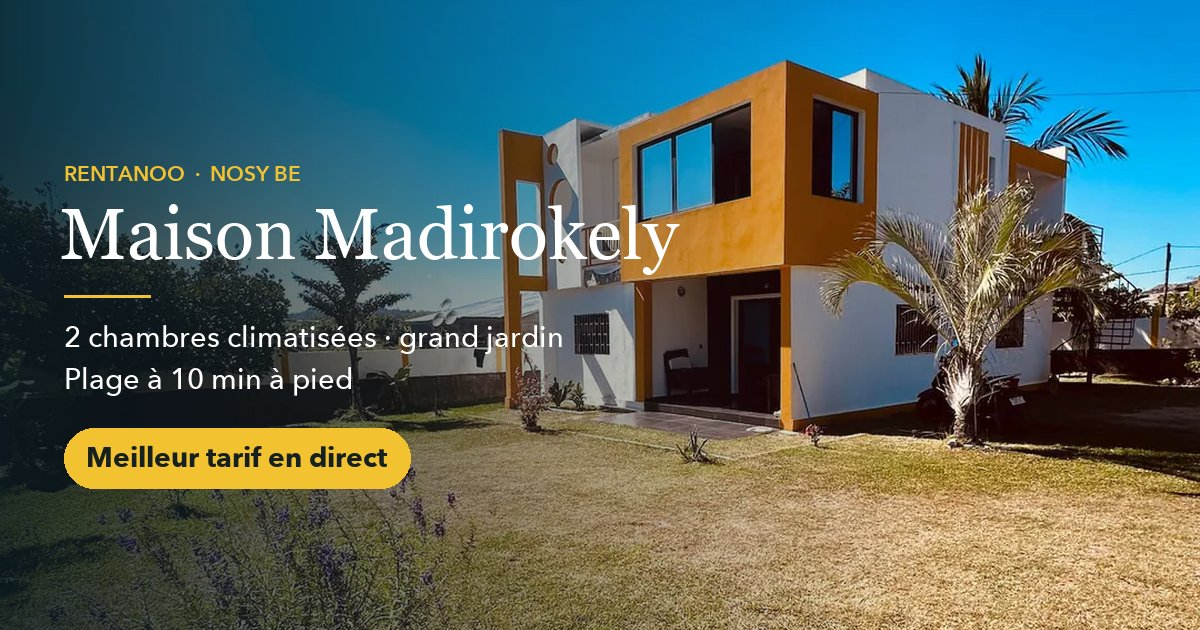
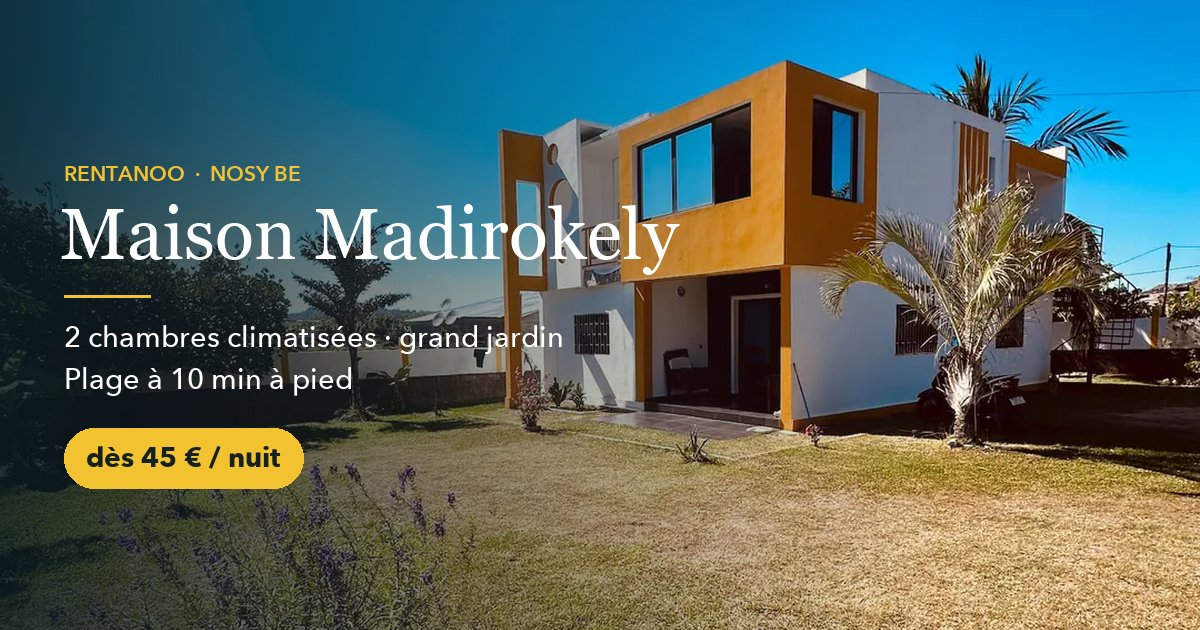
Prix direct : dès 45 € la nuit (FR/IT/EN, JSON-LD, image de partage)

Changed region(s): [[0.0617, 0.6635, 0.37, 0.7841]]

diff --git a/index.html b/index.html
@@ -4,7 +4,7 @@
 <meta charset="utf-8">
 <meta name="viewport" content="width=device-width, initial-scale=1">
 <title>Maison neuve avec jardin à Madirokely, Nosy Be — 2 chambres climatisées</title>
-<meta name="description" content="Maison neuve avec grand jardin privatif à Madirokely, Nosy Be : 2 chambres climatisées, jusqu&#x27;à 5 personnes, wifi, Canal+, cuisine équipée, gardien. Plage à 10 min à pied. Meilleur tarif en direct.">
+<meta name="description" content="Maison neuve avec grand jardin privatif à Madirokely, Nosy Be : 2 chambres climatisées, jusqu&#x27;à 5 personnes, wifi, Canal+, cuisine équipée, gardien. Plage à 10 min à pied. Dès 45 € la nuit en direct.">
 <link rel="canonical" href="https://maison-madirokely.rentanoo.com/">
 <meta name="robots" content="index, follow, max-image-preview:large, max-snippet:-1">
 <meta name="theme-color" content="#16211F">
@@ -20,7 +20,7 @@
 <meta property="og:locale:alternate" content="en_US">
 <meta property="og:url" content="https://maison-madirokely.rentanoo.com/">
 <meta property="og:title" content="Maison neuve avec jardin · Madirokely, Nosy Be">
-<meta property="og:description" content="2 chambres climatisées, grand jardin privatif, jusqu&#x27;à 5 personnes, plage à 10 min à pied. Meilleur tarif en direct.">
+<meta property="og:description" content="2 chambres climatisées, grand jardin privatif, jusqu&#x27;à 5 personnes, plage à 10 min à pied. Dès 45 € la nuit en direct.">
 <meta property="og:image" content="https://maison-madirokely.rentanoo.com/images/og.jpg">
 <meta property="og:image:secure_url" content="https://maison-madirokely.rentanoo.com/images/og.jpg">
 <meta property="og:image:type" content="image/jpeg">
@@ -30,11 +30,11 @@
 
 <meta name="twitter:card" content="summary_large_image">
 <meta name="twitter:title" content="Maison neuve avec jardin · Madirokely, Nosy Be">
-<meta name="twitter:description" content="2 chambres climatisées, grand jardin privatif, jusqu&#x27;à 5 personnes, plage à 10 min à pied. Meilleur tarif en direct.">
+<meta name="twitter:description" content="2 chambres climatisées, grand jardin privatif, jusqu&#x27;à 5 personnes, plage à 10 min à pied. Dès 45 € la nuit en direct.">
 <meta name="twitter:image" content="https://maison-madirokely.rentanoo.com/images/og.jpg">
 
 <script type="application/ld+json">
-{"@type": "LodgingBusiness", "name": "Maison Madirokely", "description": "Maison neuve avec grand jardin privatif à Madirokely (Nosy Be), dans une résidence sécurisée avec gardien : 2 chambres climatisées et couchage au salon, jusqu'à 5 personnes, wifi, Canal+, cuisine équipée. Plage de Madirokely à 10 minutes à pied.", "url": "https://maison-madirokely.rentanoo.com/", "image": ["https://maison-madirokely.rentanoo.com/images/og.jpg", "https://maison-madirokely.rentanoo.com/images/exterieur-1.webp"], "telephone": "+261373437912", "email": "chrisrentanoo@gmail.com", "address": {"@type": "PostalAddress", "addressLocality": "Madirokely", "addressRegion": "Nosy Be", "addressCountry": "MG"}, "areaServed": "Nosy Be", "amenityFeature": [{"@type": "LocationFeatureSpecification", "name": "Climatisation", "value": true}, {"@type": "LocationFeatureSpecification", "name": "Wifi", "value": true}, {"@type": "LocationFeatureSpecification", "name": "Canal+", "value": true}, {"@type": "LocationFeatureSpecification", "name": "Cuisine équipée", "value": true}, {"@type": "LocationFeatureSpecification", "name": "Jardin privatif", "value": true}, {"@type": "LocationFeatureSpecification", "name": "Gardien sur place", "value": true}], "sameAs": ["https://rentanoo.com/hebergement/DA287E92", "https://www.airbnb.fr/rooms/1715794139756240417"], "numberOfRooms": 2, "@context": "https://schema.org"}
+{"@type": "LodgingBusiness", "name": "Maison Madirokely", "description": "Maison neuve avec grand jardin privatif à Madirokely (Nosy Be), dans une résidence sécurisée avec gardien : 2 chambres climatisées et couchage au salon, jusqu'à 5 personnes, wifi, Canal+, cuisine équipée. Plage de Madirokely à 10 minutes à pied.", "url": "https://maison-madirokely.rentanoo.com/", "image": ["https://maison-madirokely.rentanoo.com/images/og.jpg", "https://maison-madirokely.rentanoo.com/images/exterieur-1.webp"], "telephone": "+261373437912", "email": "chrisrentanoo@gmail.com", "address": {"@type": "PostalAddress", "addressLocality": "Madirokely", "addressRegion": "Nosy Be", "addressCountry": "MG"}, "areaServed": "Nosy Be", "amenityFeature": [{"@type": "LocationFeatureSpecification", "name": "Climatisation", "value": true}, {"@type": "LocationFeatureSpecification", "name": "Wifi", "value": true}, {"@type": "LocationFeatureSpecification", "name": "Canal+", "value": true}, {"@type": "LocationFeatureSpecification", "name": "Cuisine équipée", "value": true}, {"@type": "LocationFeatureSpecification", "name": "Jardin privatif", "value": true}, {"@type": "LocationFeatureSpecification", "name": "Gardien sur place", "value": true}], "sameAs": ["https://rentanoo.com/hebergement/DA287E92", "https://www.airbnb.fr/rooms/1715794139756240417"], "numberOfRooms": 2, "priceRange": "À partir de 45 € la nuit", "currenciesAccepted": "EUR", "@context": "https://schema.org"}
 </script>
 
 <link rel="preconnect" href="https://fonts.googleapis.com">
@@ -274,9 +274,9 @@
 <header id="hdr">
   <a class="brand" href="#top" aria-label="Maison Madirokely"><b>Maison Madirokely</b><small>Madirokely · Nosy Be</small></a>
   <nav class="nav" aria-label="Navigation">
-    <a class="nl" href="#presentation"><span data-i18n="k35">Le logement</span></a>
-    <a class="nl" href="#pieces"><span data-i18n="k36">Pièce par pièce</span></a>
-    <a class="nl" href="#quartier"><span data-i18n="k37">Le quartier</span></a>
+    <a class="nl" href="#presentation"><span data-i18n="k36">Le logement</span></a>
+    <a class="nl" href="#pieces"><span data-i18n="k37">Pièce par pièce</span></a>
+    <a class="nl" href="#quartier"><span data-i18n="k38">Le quartier</span></a>
     <div class="langs" role="group" aria-label="Langue">
       <button type="button" data-lang="fr" aria-pressed="true"><span>FR</span></button>
       <button type="button" data-lang="it" aria-pressed="false"><span>IT</span></button>
@@ -293,16 +293,16 @@
     <img src="images/exterieur-1.webp" alt="La maison et son jardin, Madirokely" width="1080" height="1440" fetchpriority="high">
   </picture>
   <div class="hero-in">
-    <p data-i18n="k38" class="eyebrow">Madirokely · Nosy Be</p>
+    <p data-i18n="k39" class="eyebrow">Madirokely · Nosy Be</p>
     <h1>Maison Madirokely</h1>
-    <p data-i18n="k39" class="hero-sub">Une maison neuve avec grand jardin, au calme dans une résidence sécurisée, à 10 minutes à pied de la plage.</p>
+    <p data-i18n="k40" class="hero-sub">Une maison neuve avec grand jardin, au calme dans une résidence sécurisée, à 10 minutes à pied de la plage.</p>
     <ul class="chips"><li><span data-i18n="k1">2 chambres climatisées</span></li><li><span data-i18n="k2">Jusqu'à 5 voyageurs</span></li><li><span data-i18n="k3">Grand jardin</span></li><li><span data-i18n="k4">Plage à 10 min</span></li></ul>
     <div class="hero-row">
-      <span class="price-tag ask"><b data-i18n="best">Meilleur tarif en direct</b></span>
+      <span class="price-tag"><span data-i18n="from">dès</span> <b>45 €</b> <span data-i18n="per-night">la nuit</span></span>
       <a class="btn btn-cta" href="#reservation" data-i18n="cta-dates">Demander mes dates</a>
       <a class="btn btn-ghost" href="#" data-wa="hero"><svg><use href="#i-wa"/></svg>WhatsApp</a>
     </div>
-    <p data-i18n="k40" class="price-note">Prix sur demande selon vos dates · réponse rapide sur WhatsApp</p>
+    <p data-i18n="k35" class="price-note">Le meilleur tarif, c'est en direct · réponse rapide sur WhatsApp</p>
   </div>
 </section>
 
@@ -423,7 +423,7 @@
   <div class="wrap">
     <div class="resa-head" data-reveal>
       <p data-i18n="resa-eyebrow" class="eyebrow">Réservation</p>
-      <div class="resa-price"><span data-i18n="best">Meilleur tarif en direct</span></div>
+      <div class="resa-price"><span data-i18n="from">dès</span> <b>45 €</b> <span data-i18n="per-night">la nuit</span></div>
       <h2 data-i18n="resa-title" class="h2">Demandez vos dates</h2>
       <p data-i18n="resa-text">Choisissez vos dates et laissez-nous vos coordonnées : on revient vers vous très vite avec la disponibilité et le meilleur prix.</p>
     </div>
@@ -471,7 +471,7 @@
 </footer>
 
 <div id="sticky" aria-hidden="true">
-  <div class="p"><b data-i18n="best" style="font-size:14px">Meilleur tarif en direct</b></div>
+  <div class="p"><span data-i18n="from">dès</span> <b>45 € <span style="font-size:12px;font-weight:600;color:var(--ink-2)" data-i18n="per-night">la nuit</span></b></div>
   <a class="btn btn-cta" href="#reservation" data-i18n="cta-dates">Demander mes dates</a>
 </div>
 
@@ -522,7 +522,7 @@ if('IntersectionObserver' in window){var io=new IntersectionObserver(function(es
 else document.querySelectorAll('[data-reveal]').forEach(function(el){el.classList.add('in')});
 
 /* Traductions : FR dans le HTML, IT/EN ici (générées par build.py, clé = data-i18n) */
-var T={"k1": {"it": "2 camere climatizzate", "en": "2 air-conditioned bedrooms"}, "k2": {"it": "Fino a 5 ospiti", "en": "Up to 5 guests"}, "k3": {"it": "Grande giardino", "en": "Big garden"}, "k4": {"it": "Spiaggia a 10 min", "en": "Beach 10 min away"}, "k5": {"it": "2 camere climatizzate", "en": "2 air-conditioned bedrooms"}, "k6": {"it": "Fino a 5 ospiti", "en": "Up to 5 guests"}, "k7": {"it": "Grande giardino privato", "en": "Big private garden"}, "k8": {"it": "Spiaggia a 10 min a piedi", "en": "Beach a 10-min walk"}, "k9": {"it": "Wi-Fi", "en": "Wi-Fi"}, "k10": {"it": "Canal+", "en": "Canal+"}, "k11": {"it": "Custode sul posto", "en": "Caretaker on site"}, "k12": {"it": "Casa nuova", "en": "Brand-new house"}, "k13": {"it": "Voglia di posare le valigie tra amici, nella quiete e nel verde? Questa casa nuova con grande giardino vi aspetta a Madirokely, in un quartiere residenziale tranquillo e sicuro.", "en": "Want to settle in with friends, somewhere quiet and green? This brand-new house with a big garden awaits you in Madirokely, a peaceful and secure residential area."}, "k14": {"it": "2 camere climatizzate e un posto letto in soggiorno, fino a 5 persone. Soggiorno con televisione e Canal+, cucina attrezzata, Wi-Fi.", "en": "2 air-conditioned bedrooms plus a bed in the living room, up to 5 people. Living room with TV and Canal+, equipped kitchen, Wi-Fi."}, "k15": {"it": "Residenza sicura con custode sul posto, a 10 minuti a piedi dalla spiaggia di Madirokely.", "en": "A secure residence with a caretaker on site, a 10-minute walk from Madirokely beach."}, "k16": {"it": "Soggiorno", "en": "Living room"}, "k17": {"it": "Televisione", "en": "TV"}, "k18": {"it": "Canal+", "en": "Canal+"}, "k19": {"it": "Posto letto in soggiorno", "en": "Bed in living room"}, "k20": {"it": "Il soggiorno", "en": "The living room"}, "k21": {"it": "Un soggiorno luminoso con televisione e Canal+, un posto letto per una persona in più e la cucina attrezzata accanto.", "en": "A bright living room with TV and Canal+, a bed for one more person, and the equipped kitchen right next to it."}, "see-photos": {"it": "Vedi le foto", "en": "See the photos"}, "k22": {"it": "Camere", "en": "Bedrooms"}, "k23": {"it": "Aria condizionata", "en": "Air conditioning"}, "k24": {"it": "Le camere", "en": "The bedrooms"}, "k25": {"it": "Due camere climatizzate, luminose e nuove.", "en": "Two bright, brand-new air-conditioned bedrooms."}, "k26": {"it": "Bagno", "en": "Bathroom"}, "k27": {"it": "Il bagno", "en": "The bathroom"}, "k28": {"it": "Un bagno nuovo con doccia, lavabo e WC.", "en": "A new bathroom with shower, basin and toilet."}, "k29": {"it": "Casa e giardino", "en": "House & garden"}, "k30": {"it": "Giardino privato", "en": "Private garden"}, "k31": {"it": "Residenza sicura", "en": "Secure residence"}, "k32": {"it": "La casa e il giardino", "en": "The house & its garden"}, "k33": {"it": "Una casa nuova su un grande giardino privato: il posto perfetto per ritrovarsi all'ombra delle palme.", "en": "A new house set in a big private garden: the perfect spot to get together in the shade of the palms."}, "k34": {"it": "Spiaggia di Madirokely<small>a piedi</small>", "en": "Madirokely beach<small>on foot</small>"}, "cta-book": {"it": "Prenota", "en": "Book"}, "cta-dates": {"it": "Chiedi le tue date", "en": "Request your dates"}, "best": {"it": "Tariffa migliore prenotando direttamente", "en": "Best rate when you book direct"}, "pf-best": {"it": "Tariffa migliore", "en": "Best rate"}, "k35": {"it": "L'alloggio", "en": "The place"}, "k36": {"it": "Stanza per stanza", "en": "Room by room"}, "k37": {"it": "Il quartiere", "en": "The area"}, "k38": {"it": "Madirokely · Nosy Be", "en": "Madirokely · Nosy Be"}, "k39": {"it": "Una casa nuova con grande giardino, nella tranquillità di una residenza sicura, a 10 minuti a piedi dalla spiaggia.", "en": "A brand-new house with a big garden, quiet in a secure residence, a 10-minute walk from the beach."}, "k40": {"it": "Prezzo su richiesta in base alle date · risposta rapida su WhatsApp", "en": "Price on request for your dates · quick reply on WhatsApp"}, "k41": {"it": "La casa", "en": "The house"}, "k42": {"it": "Tra amici, nella quiete e nel verde", "en": "With friends, quiet and green"}, "direct-eyebrow": {"it": "Prenota direttamente", "en": "Book direct"}, "direct-title": {"it": "La tariffa migliore è qui", "en": "The best rate is here"}, "direct-text": {"it": "Sulle piattaforme il prezzo a notte include le loro commissioni. Prenotando direttamente con noi pagate meno: inviateci le date e vi rispondiamo con il prezzo migliore.", "en": "On booking platforms, the nightly price includes their commissions. Book directly with us and you pay less: send us your dates and we reply with the best price."}, "direct-1": {"it": "Più conveniente delle piattaforme per le stesse date", "en": "Cheaper than the platforms for the same dates"}, "direct-2": {"it": "Parlate direttamente con noi, risposta rapida su WhatsApp", "en": "You talk directly to us, quick replies on WhatsApp"}, "direct-3": {"it": "Transfer, scooter, auto o escursione organizzati subito", "en": "Transfer, scooter, car or excursion arranged in one go"}, "rooms-eyebrow": {"it": "Stanza per stanza", "en": "Room by room"}, "k43": {"it": "Visitate l'alloggio", "en": "Take the tour"}, "rooms-lead": {"it": "Tutte le foto sono dell'alloggio. Toccate una foto per ingrandirla.", "en": "All photos are of the place itself. Tap a photo to enlarge it."}, "area-eyebrow": {"it": "Il quartiere", "en": "The area"}, "k44": {"it": "Madirokely, tranquilla e vicina alla spiaggia", "en": "Madirokely, quiet and close to the beach"}, "k45": {"it": "Un quartiere residenziale tranquillo, vicino all'animazione e alle spiagge di Nosy Be.", "en": "A peaceful residential area, close to Nosy Be's nightlife and beaches."}, "k46": {"it": "Prenotate anche lo scooter Rentanoo: viene consegnato direttamente all'alloggio.", "en": "Book a Rentanoo scooter as well: it is delivered straight to the house."}, "host-eyebrow": {"it": "Prenotazione", "en": "Booking"}, "host-title": {"it": "Ciao, sono Chris", "en": "Hi, I'm Chris"}, "k47": {"it": "Con Rentanoo accolgo viaggiatori a Nosy Be tutto l'anno e gestisco le prenotazioni di diversi alloggi sull'isola, tra cui questo. Il mio lavoro è rendervi il soggiorno facile.", "en": "With Rentanoo I welcome travellers to Nosy Be all year round and handle bookings for several places on the island, including this one. My job is to make your stay easy."}, "host-2": {"it": "Rispondo rapidamente, dalla mattina alla sera, in francese, inglese o italiano.", "en": "I reply quickly, from morning to evening, in French, English or Italian."}, "svc-title": {"it": "Su richiesta, Rentanoo organizza anche:", "en": "On request, Rentanoo also arranges:"}, "svc-1": {"it": "Transfer dall'aeroporto", "en": "Airport transfer"}, "svc-2": {"it": "Noleggio di scooter o quad", "en": "Scooter or quad rental"}, "svc-3": {"it": "Escursioni e taxi-boat", "en": "Excursions and taxi-boat"}, "svc-4": {"it": "Auto con o senza autista", "en": "Car with or without a driver"}, "resa-eyebrow": {"it": "Prenotazione", "en": "Booking"}, "resa-title": {"it": "Chiedete le vostre date", "en": "Request your dates"}, "resa-text": {"it": "Scegliete le date e lasciateci i vostri recapiti: vi ricontattiamo molto presto con la disponibilità e il prezzo migliore.", "en": "Pick your dates and leave your details: we will get back to you very quickly with availability and the best price."}, "f-in": {"it": "Arrivo", "en": "Check-in"}, "f-out": {"it": "Partenza", "en": "Check-out"}, "f-guests": {"it": "Ospiti", "en": "Guests"}, "f-first": {"it": "Nome", "en": "First name"}, "f-last": {"it": "Cognome", "en": "Last name"}, "f-tel": {"it": "Telefono (WhatsApp)", "en": "Phone (WhatsApp)"}, "f-mail": {"it": "E-mail", "en": "Email"}, "f-msg": {"it": "Messaggio (facoltativo): transfer, scooter, escursione…", "en": "Message (optional): transfer, scooter, excursion…"}, "f-send": {"it": "Invia la richiesta", "en": "Send my request"}, "f-free": {"it": "Gratis e senza impegno · risposta rapida", "en": "Free, no commitment · quick reply"}, "alt-text": {"it": "Preferite scrivere?", "en": "Prefer to write?"}, "pf-eyebrow": {"it": "Anche online su", "en": "Also listed on"}, "pf-text": {"it": "Preferite passare da una piattaforma? Trovate l'alloggio qui.", "en": "Prefer to use a platform? Find the place here."}, "ft-powered": {"it": "Sito realizzato da", "en": "Site powered by"}};
+var T={"k1": {"it": "2 camere climatizzate", "en": "2 air-conditioned bedrooms"}, "k2": {"it": "Fino a 5 ospiti", "en": "Up to 5 guests"}, "k3": {"it": "Grande giardino", "en": "Big garden"}, "k4": {"it": "Spiaggia a 10 min", "en": "Beach 10 min away"}, "k5": {"it": "2 camere climatizzate", "en": "2 air-conditioned bedrooms"}, "k6": {"it": "Fino a 5 ospiti", "en": "Up to 5 guests"}, "k7": {"it": "Grande giardino privato", "en": "Big private garden"}, "k8": {"it": "Spiaggia a 10 min a piedi", "en": "Beach a 10-min walk"}, "k9": {"it": "Wi-Fi", "en": "Wi-Fi"}, "k10": {"it": "Canal+", "en": "Canal+"}, "k11": {"it": "Custode sul posto", "en": "Caretaker on site"}, "k12": {"it": "Casa nuova", "en": "Brand-new house"}, "k13": {"it": "Voglia di posare le valigie tra amici, nella quiete e nel verde? Questa casa nuova con grande giardino vi aspetta a Madirokely, in un quartiere residenziale tranquillo e sicuro.", "en": "Want to settle in with friends, somewhere quiet and green? This brand-new house with a big garden awaits you in Madirokely, a peaceful and secure residential area."}, "k14": {"it": "2 camere climatizzate e un posto letto in soggiorno, fino a 5 persone. Soggiorno con televisione e Canal+, cucina attrezzata, Wi-Fi.", "en": "2 air-conditioned bedrooms plus a bed in the living room, up to 5 people. Living room with TV and Canal+, equipped kitchen, Wi-Fi."}, "k15": {"it": "Residenza sicura con custode sul posto, a 10 minuti a piedi dalla spiaggia di Madirokely.", "en": "A secure residence with a caretaker on site, a 10-minute walk from Madirokely beach."}, "k16": {"it": "Soggiorno", "en": "Living room"}, "k17": {"it": "Televisione", "en": "TV"}, "k18": {"it": "Canal+", "en": "Canal+"}, "k19": {"it": "Posto letto in soggiorno", "en": "Bed in living room"}, "k20": {"it": "Il soggiorno", "en": "The living room"}, "k21": {"it": "Un soggiorno luminoso con televisione e Canal+, un posto letto per una persona in più e la cucina attrezzata accanto.", "en": "A bright living room with TV and Canal+, a bed for one more person, and the equipped kitchen right next to it."}, "see-photos": {"it": "Vedi le foto", "en": "See the photos"}, "k22": {"it": "Camere", "en": "Bedrooms"}, "k23": {"it": "Aria condizionata", "en": "Air conditioning"}, "k24": {"it": "Le camere", "en": "The bedrooms"}, "k25": {"it": "Due camere climatizzate, luminose e nuove.", "en": "Two bright, brand-new air-conditioned bedrooms."}, "k26": {"it": "Bagno", "en": "Bathroom"}, "k27": {"it": "Il bagno", "en": "The bathroom"}, "k28": {"it": "Un bagno nuovo con doccia, lavabo e WC.", "en": "A new bathroom with shower, basin and toilet."}, "k29": {"it": "Casa e giardino", "en": "House & garden"}, "k30": {"it": "Giardino privato", "en": "Private garden"}, "k31": {"it": "Residenza sicura", "en": "Secure residence"}, "k32": {"it": "La casa e il giardino", "en": "The house & its garden"}, "k33": {"it": "Una casa nuova su un grande giardino privato: il posto perfetto per ritrovarsi all'ombra delle palme.", "en": "A new house set in a big private garden: the perfect spot to get together in the shade of the palms."}, "k34": {"it": "Spiaggia di Madirokely<small>a piedi</small>", "en": "Madirokely beach<small>on foot</small>"}, "from": {"it": "da", "en": "from"}, "per-night": {"it": "a notte", "en": "per night"}, "k35": {"it": "La tariffa migliore è prenotando direttamente · risposta rapida su WhatsApp", "en": "The best rate is when you book direct · quick reply on WhatsApp"}, "cta-book": {"it": "Prenota", "en": "Book"}, "cta-dates": {"it": "Chiedi le tue date", "en": "Request your dates"}, "best": {"it": "Tariffa migliore prenotando direttamente", "en": "Best rate when you book direct"}, "pf-best": {"it": "Tariffa migliore", "en": "Best rate"}, "k36": {"it": "L'alloggio", "en": "The place"}, "k37": {"it": "Stanza per stanza", "en": "Room by room"}, "k38": {"it": "Il quartiere", "en": "The area"}, "k39": {"it": "Madirokely · Nosy Be", "en": "Madirokely · Nosy Be"}, "k40": {"it": "Una casa nuova con grande giardino, nella tranquillità di una residenza sicura, a 10 minuti a piedi dalla spiaggia.", "en": "A brand-new house with a big garden, quiet in a secure residence, a 10-minute walk from the beach."}, "k41": {"it": "La casa", "en": "The house"}, "k42": {"it": "Tra amici, nella quiete e nel verde", "en": "With friends, quiet and green"}, "direct-eyebrow": {"it": "Prenota direttamente", "en": "Book direct"}, "direct-title": {"it": "La tariffa migliore è qui", "en": "The best rate is here"}, "direct-text": {"it": "Sulle piattaforme il prezzo a notte include le loro commissioni. Prenotando direttamente con noi pagate meno: inviateci le date e vi rispondiamo con il prezzo migliore.", "en": "On booking platforms, the nightly price includes their commissions. Book directly with us and you pay less: send us your dates and we reply with the best price."}, "direct-1": {"it": "Più conveniente delle piattaforme per le stesse date", "en": "Cheaper than the platforms for the same dates"}, "direct-2": {"it": "Parlate direttamente con noi, risposta rapida su WhatsApp", "en": "You talk directly to us, quick replies on WhatsApp"}, "direct-3": {"it": "Transfer, scooter, auto o escursione organizzati subito", "en": "Transfer, scooter, car or excursion arranged in one go"}, "rooms-eyebrow": {"it": "Stanza per stanza", "en": "Room by room"}, "k43": {"it": "Visitate l'alloggio", "en": "Take the tour"}, "rooms-lead": {"it": "Tutte le foto sono dell'alloggio. Toccate una foto per ingrandirla.", "en": "All photos are of the place itself. Tap a photo to enlarge it."}, "area-eyebrow": {"it": "Il quartiere", "en": "The area"}, "k44": {"it": "Madirokely, tranquilla e vicina alla spiaggia", "en": "Madirokely, quiet and close to the beach"}, "k45": {"it": "Un quartiere residenziale tranquillo, vicino all'animazione e alle spiagge di Nosy Be.", "en": "A peaceful residential area, close to Nosy Be's nightlife and beaches."}, "k46": {"it": "Prenotate anche lo scooter Rentanoo: viene consegnato direttamente all'alloggio.", "en": "Book a Rentanoo scooter as well: it is delivered straight to the house."}, "host-eyebrow": {"it": "Prenotazione", "en": "Booking"}, "host-title": {"it": "Ciao, sono Chris", "en": "Hi, I'm Chris"}, "k47": {"it": "Con Rentanoo accolgo viaggiatori a Nosy Be tutto l'anno e gestisco le prenotazioni di diversi alloggi sull'isola, tra cui questo. Il mio lavoro è rendervi il soggiorno facile.", "en": "With Rentanoo I welcome travellers to Nosy Be all year round and handle bookings for several places on the island, including this one. My job is to make your stay easy."}, "host-2": {"it": "Rispondo rapidamente, dalla mattina alla sera, in francese, inglese o italiano.", "en": "I reply quickly, from morning to evening, in French, English or Italian."}, "svc-title": {"it": "Su richiesta, Rentanoo organizza anche:", "en": "On request, Rentanoo also arranges:"}, "svc-1": {"it": "Transfer dall'aeroporto", "en": "Airport transfer"}, "svc-2": {"it": "Noleggio di scooter o quad", "en": "Scooter or quad rental"}, "svc-3": {"it": "Escursioni e taxi-boat", "en": "Excursions and taxi-boat"}, "svc-4": {"it": "Auto con o senza autista", "en": "Car with or without a driver"}, "resa-eyebrow": {"it": "Prenotazione", "en": "Booking"}, "resa-title": {"it": "Chiedete le vostre date", "en": "Request your dates"}, "resa-text": {"it": "Scegliete le date e lasciateci i vostri recapiti: vi ricontattiamo molto presto con la disponibilità e il prezzo migliore.", "en": "Pick your dates and leave your details: we will get back to you very quickly with availability and the best price."}, "f-in": {"it": "Arrivo", "en": "Check-in"}, "f-out": {"it": "Partenza", "en": "Check-out"}, "f-guests": {"it": "Ospiti", "en": "Guests"}, "f-first": {"it": "Nome", "en": "First name"}, "f-last": {"it": "Cognome", "en": "Last name"}, "f-tel": {"it": "Telefono (WhatsApp)", "en": "Phone (WhatsApp)"}, "f-mail": {"it": "E-mail", "en": "Email"}, "f-msg": {"it": "Messaggio (facoltativo): transfer, scooter, escursione…", "en": "Message (optional): transfer, scooter, excursion…"}, "f-send": {"it": "Invia la richiesta", "en": "Send my request"}, "f-free": {"it": "Gratis e senza impegno · risposta rapida", "en": "Free, no commitment · quick reply"}, "alt-text": {"it": "Preferite scrivere?", "en": "Prefer to write?"}, "pf-eyebrow": {"it": "Anche online su", "en": "Also listed on"}, "pf-text": {"it": "Preferite passare da una piattaforma? Trovate l'alloggio qui.", "en": "Prefer to use a platform? Find the place here."}, "ft-powered": {"it": "Sito realizzato da", "en": "Site powered by"}};
 var TITLE={"fr": "Maison neuve avec jardin à Madirokely, Nosy Be — 2 chambres climatisées", "it": "Casa nuova con giardino a Madirokely, Nosy Be — 2 camere climatizzate", "en": "New house with garden in Madirokely, Nosy Be — 2 air-conditioned bedrooms"};
 var MSG={"ok": {"fr": "✅ Demande envoyée ! Un e-mail de confirmation arrive dans votre boîte. On revient vers vous très vite.", "it": "✅ Richiesta inviata! Vi ricontattiamo molto presto.", "en": "✅ Request sent! We'll get back to you very soon."}, "req": {"fr": "Merci de remplir les champs requis.", "it": "Compilate i campi obbligatori.", "en": "Please fill in the required fields."}, "dates": {"fr": "La date de départ doit être après l'arrivée.", "it": "La data di partenza deve essere dopo l'arrivo.", "en": "Check-out must be after check-in."}, "err": {"fr": "Une erreur est survenue. Réessayez, ou écrivez-nous à ", "it": "Si è verificato un errore. Riprovate o scriveteci a ", "en": "Something went wrong. Please try again, or write to "}, "sending": {"fr": "Envoi…", "it": "Invio…", "en": "Sending…"}};
 var WA_NUM='261373437912';
